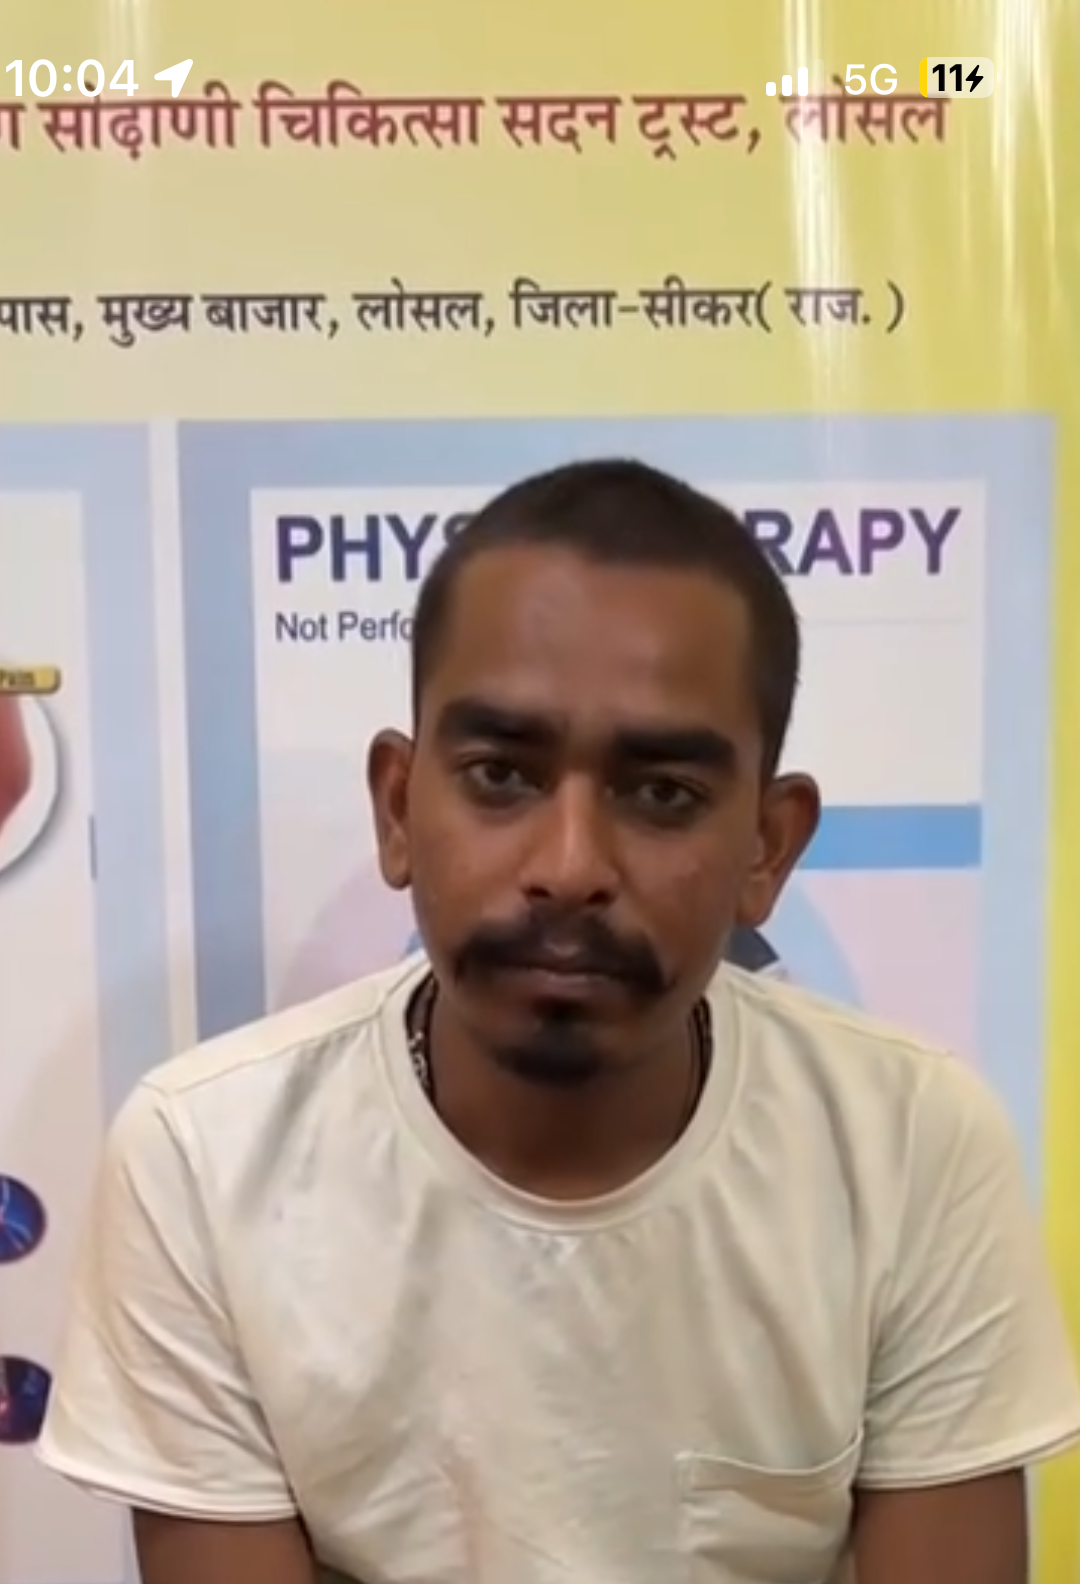
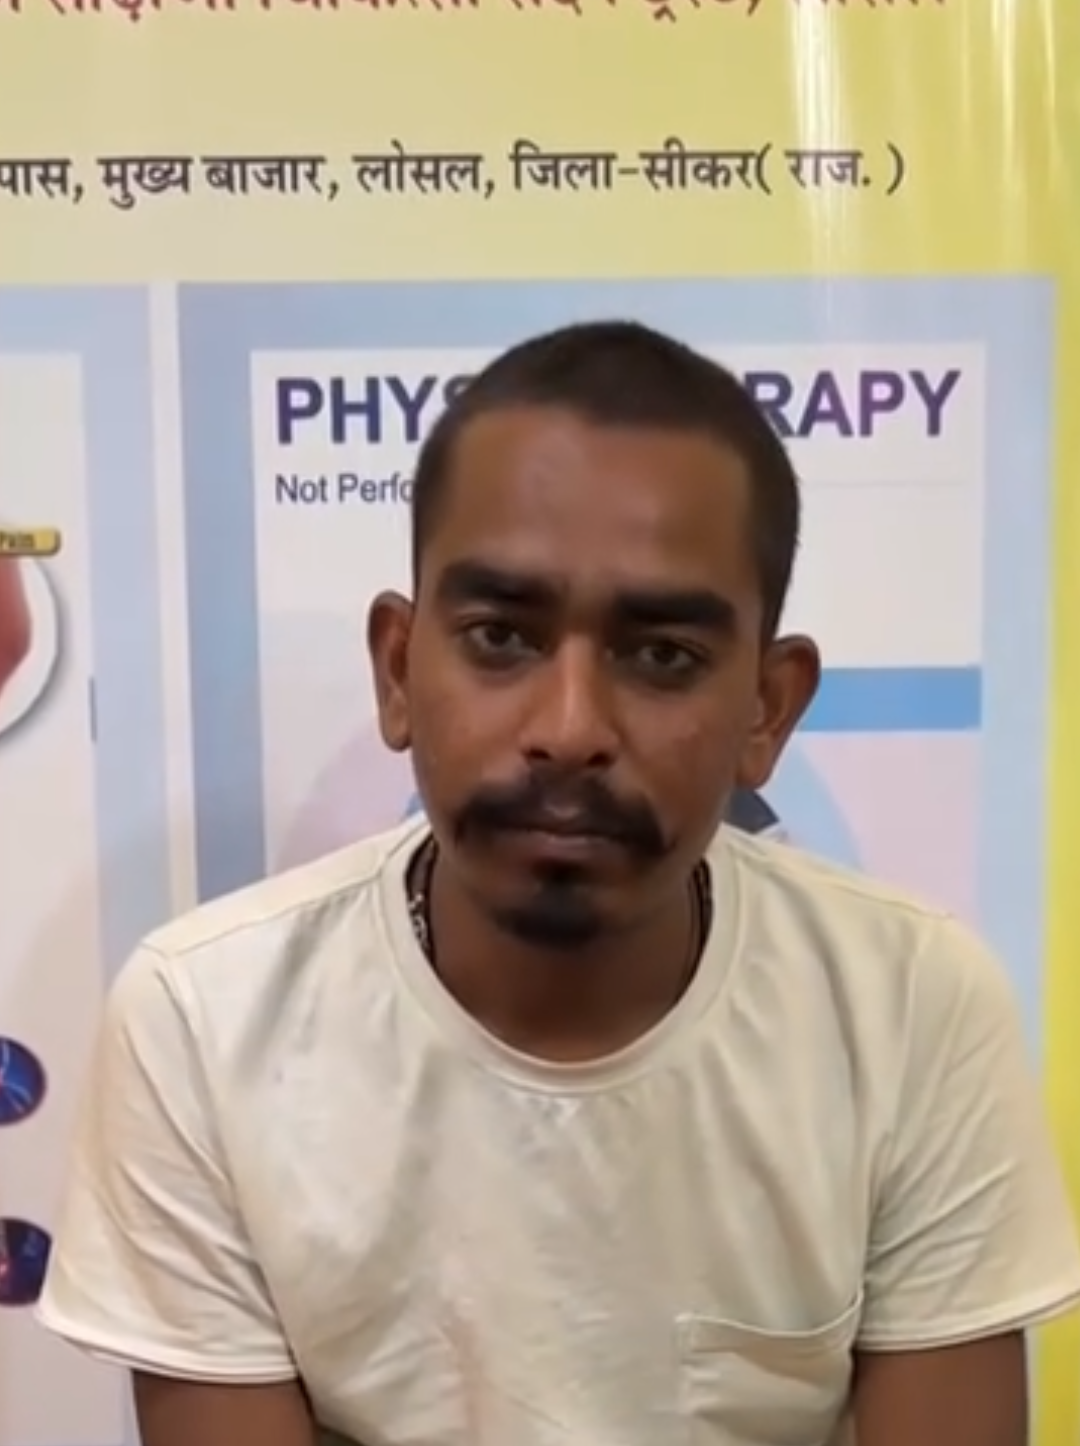
images

diff --git a/src/subpages/Testimonials.jsx b/src/subpages/Testimonials.jsx
@@ -1,13 +1,12 @@
 import React, { useState } from 'react';
 import { Star } from 'lucide-react';
 
-// COMPLETE TESTIMONIALS DATA - All 46 patients
 const TESTIMONIALS_DATA = [
   {
     id: 1,
     name: 'Mukesh Kumar',
     age: 32,
-    image: '/public/images/mu',
+    image: '/public/images/Testimonials/Mukesh .PNG',
     problem: 'Chronic Lower Back Pain',
     category: 'pain-management',
     duration: '4 weeks',
@@ -19,7 +18,7 @@ const TESTIMONIALS_DATA = [
     id: 2,
     name: 'Pintu Yogi',
     age: 25,
-    image: 'https://via.placeholder.com/400x300?text=Pintu',
+    image: '/public/images/Testimonials/Pintu Yogi.PNG',
     problem: 'ACL Tear & Knee Injury',
     category: 'sports-rehab',
     duration: '8 weeks',
@@ -31,7 +30,7 @@ const TESTIMONIALS_DATA = [
     id: 3,
     name: 'Gyan Chand Jatolia',
     age: 28,
-    image: 'https://via.placeholder.com/400x300?text=Gyan',
+    image: '/public/images/Testimonials/Gyan Chand.PNG',
     problem: 'Cervical Spondylosis',
     category: 'orthopedic',
     duration: '4 weeks',
@@ -43,7 +42,7 @@ const TESTIMONIALS_DATA = [
     id: 4,
     name: 'Akhtar Husain',
     age: 65,
-    image: 'https://via.placeholder.com/400x300?text=Akhtar',
+    image: '/public/images/Testimonials/Akhtar Husain.PNG',
     problem: 'Post-Stroke Rehabilitation',
     category: 'neurological',
     duration: '12 weeks',
@@ -55,7 +54,7 @@ const TESTIMONIALS_DATA = [
     id: 5,
     name: 'Bindia Devi',
     age: 52,
-    image: 'https://via.placeholder.com/400x300?text=Bindia',
+    image: '/public/images/Testimonials/Bindia Devi.PNG',
     problem: 'Frozen Shoulder',
     category: 'orthopedic',
     duration: '10 weeks',
@@ -67,7 +66,7 @@ const TESTIMONIALS_DATA = [
     id: 6,
     name: 'Pushpa Devi',
     age: 70,
-    image: 'https://via.placeholder.com/400x300?text=Pushpa',
+    image: '/public/images/Testimonials/Pushpa Devi.jpeg',
     problem: 'Rheumatoid Arthritis',
     category: 'pain-management',
     duration: '6 weeks',
@@ -79,7 +78,7 @@ const TESTIMONIALS_DATA = [
     id: 7,
     name: 'Vijay Shree Soni',
     age: 32,
-    image: 'https://via.placeholder.com/400x300?text=Vijay',
+    image: '/public/images/Testimonials/Vijayshree Soni.jpg',
     problem: 'Pregnancy-Related Back Pain',
     category: 'others',
     duration: 'ongoing',
@@ -91,7 +90,7 @@ const TESTIMONIALS_DATA = [
     id: 8,
     name: 'Sitaram Kumawat',
     age: 70,
-    image: 'https://via.placeholder.com/400x300?text=Sitaram',
+    image: '/public/images/Testimonials/Sitaram Kumawat.PNG',
     problem: 'Post-Operative Knee Surgery',
     category: 'orthopedic',
     duration: '8 weeks',
@@ -103,7 +102,7 @@ const TESTIMONIALS_DATA = [
     id: 9,
     name: 'Jhutaram Gurjar',
     age: 68,
-    image: 'https://via.placeholder.com/400x300?text=Jhutaram',
+    image: '/public/images/Testimonials/Jhutaram Gurjar.PNG',
     problem: 'Frozen Shoulder',
     category: 'orthopedic',
     duration: '8 weeks',
@@ -115,7 +114,7 @@ const TESTIMONIALS_DATA = [
     id: 10,
     name: 'Munsi Ji',
     age: 41,
-    image: 'https://via.placeholder.com/400x300?text=Munsi',
+    image: '/public/images/Testimonials/Munsi Ji.PNG',
     problem: 'ACL Reconstruction Rehabilitation',
     category: 'sports-rehab',
     duration: '6 weeks',
@@ -127,7 +126,7 @@ const TESTIMONIALS_DATA = [
     id: 11,
     name: 'Varsha Bajaj',
     age: 32,
-    image: 'https://via.placeholder.com/400x300?text=Varsha',
+    image: '/public/images/Testimonials/Varsha Bajaj.PNG',
     problem: 'Osteoarthritis of Knee',
     category: 'pain-management',
     duration: '4 weeks',
@@ -139,7 +138,7 @@ const TESTIMONIALS_DATA = [
     id: 12,
     name: 'Kunal Jangid',
     age: 32,
-    image: 'https://via.placeholder.com/400x300?text=Kunal',
+    image: '/public/images/Testimonials/Kunal Jangid.PNG',
     problem: 'Lumbar Disc Bulge',
     category: 'pain-management',
     duration: '6 weeks',
@@ -151,7 +150,7 @@ const TESTIMONIALS_DATA = [
     id: 13,
     name: 'Sukhdev Ram',
     age: 60,
-    image: 'https://via.placeholder.com/400x300?text=Sukhdev',
+    image: '/public/images/Testimonials/Sukhdev Ram.PNG',
     problem: 'Balance & Gait Disorder',
     category: 'neurological',
     duration: '6 weeks',
@@ -163,7 +162,7 @@ const TESTIMONIALS_DATA = [
     id: 14,
     name: 'Suman Sharma',
     age: 35,
-    image: 'https://via.placeholder.com/400x300?text=Suman',
+    image: '/public/images/Testimonials/Suman Sharma.JPG',
     problem: 'Tennis Elbow',
     category: 'orthopedic',
     duration: '3 weeks',
@@ -175,7 +174,7 @@ const TESTIMONIALS_DATA = [
     id: 15,
     name: 'Madhusudhan Sharma',
     age: 60,
-    image: 'https://via.placeholder.com/400x300?text=Madhusudhan',
+    image: '/public/images/Testimonials/Madhusudhan Sharma.PNG',
     problem: 'Plantar Fasciitis',
     category: 'pain-management',
     duration: '5 weeks',
@@ -197,7 +196,7 @@ const TESTIMONIALS_DATA = [
   },
   {
     id: 17,
-    name: 'Ashok Prajapat',
+    name: 'Test Patient',
     age: 36,
     image: 'https://via.placeholder.com/400x300?text=Ashok',
     problem: 'Slip Disc (Lumbar Disc Herniation)',
@@ -211,7 +210,7 @@ const TESTIMONIALS_DATA = [
     id: 18,
     name: 'Munni Devi',
     age: 38,
-    image: 'https://via.placeholder.com/400x300?text=Munni',
+    image: '/public/images/Testimonials/Munni Devi.PNG',
     problem: 'Sciatica',
     category: 'pain-management',
     duration: '4 weeks',
@@ -223,7 +222,7 @@ const TESTIMONIALS_DATA = [
     id: 19,
     name: 'Kailash Chand Sharma',
     age: 57,
-    image: 'https://via.placeholder.com/400x300?text=Kailash',
+    image: '/public/images/Testimonials/Kailash Chand Sharma.PNG',
     problem: 'Shoulder Impingement Syndrome',
     category: 'orthopedic',
     duration: '3 weeks',
@@ -235,7 +234,7 @@ const TESTIMONIALS_DATA = [
     id: 20,
     name: 'Narendra Singh',
     age: 19,
-    image: 'https://via.placeholder.com/400x300?text=Narendra',
+    image: '/public/images/Testimonials/Narendra Singh.PNG',
     problem: 'Recurrent Knee Pain (Runner\'s Knee)',
     category: 'sports-rehab',
     duration: '1 week',
@@ -574,7 +573,6 @@ const TestimonialCard = ({ testimonial, isDarkMode }) => (
         alt={testimonial.name}
         className="w-full h-full object-cover transition-transform duration-500 group-hover:scale-110"
       />
-      <div className="absolute inset-0 bg-gradient-to-b from-transparent via-transparent to-black/50 group-hover:to-black/70 transition-colors duration-300"></div>
       
       <div className="absolute top-4 right-4 bg-yellow-400 text-yellow-900 px-3 py-1 rounded-full flex items-center gap-1 font-bold shadow-lg text-sm">
         <Star className="w-4 h-4 fill-current" />

diff --git a/src/subpages/Therapies.jsx b/src/subpages/Therapies.jsx
@@ -6,37 +6,37 @@ const TherapiesData = {
         { 
             id: 'tens', 
             title: 'TENS (Transcutaneous Electrical Nerve Stimulation)', 
-            image: '/public/images/TENS.png', // Add your image path here
+            image: '/public/images/Therapies/TENS.png', 
             description: 'Uses controlled electrical currents to reduce pain, relax muscles, improve blood flow, and stimulate healing. Common form for <strong>nerve pain relief</strong>.' 
         },
         { 
-            id: 'ift', 
+            id: 'ift',
             title: 'IFT (Interferential Therapy)', 
-            image: '/images/therapies/ift.jpg',
+            image: '/public/images/Therapies/IFT.png',
             description: 'Uses <strong>medium-frequency currents</strong> that penetrate deeper for deep tissue pain modulation. Ideal for <strong>joint pain, muscle spasms, and arthritis pain</strong>.' 
         },
         { 
             id: 'ultrasound', 
             title: 'Ultrasound Therapy', 
-            image: '/images/therapies/ultrasound.jpg',
+            image: '/public/images/therapies/Ultrasound.png',
             description: 'Applies high-frequency <strong>sound waves</strong> to promote tissue repair, reduce inflammation, and improve soft-tissue elasticity. Often used for <strong>tendonitis and ligament injuries</strong>.' 
         },
         { 
-            id: 'laser', 
-            title: 'Laser & Light Therapy', 
-            image: '/images/therapies/laser.jpg',
-            description: 'Low-level laser or infrared light enhances <strong>cellular regeneration</strong>, reduces inflammation, and improves tissue healing. Helpful in chronic pain, soft-tissue damage, and post-surgical recovery.' 
+            id: 'ir-lamp', 
+            title: 'Infrared (IR) Lamp Therapy', 
+            image: '/public/images/therapies/IR Lamp.png',
+            description: 'Infrared heat therapy uses an IR lamp to deliver deep <strong>therapeutic warmth</strong> that <strong>improves blood circulation, relaxes muscles, reduces stiffness</strong>, and helps relieve pain and discomfort.' 
         },
         { 
             id: 'hotpack', 
             title: 'Thermotherapy (Heat Therapy)', 
-            image: '/images/therapies/heat.jpg',
+            image: '/public/images/Therapies/Thermotherapy.png',
             description: 'Improves circulation, relaxes tight muscles, and increases tissue flexibility. Used in <strong>chronic pain, arthritis, stiffness, and muscle spasms</strong>.' 
         },
         { 
             id: 'coldpack', 
             title: 'Cryotherapy (Cold Therapy)', 
-            image: '/images/therapies/cold.jpg',
+            image: '/public/images/Therapies/Cryotherapy.png',
             description: 'Reduces <strong>swelling, inflammation, and pain</strong> by lowering tissue temperature. Common in acute injuries like <strong>sprains and strains</strong> to control early-stage inflammation.' 
         }
     ],
@@ -254,7 +254,7 @@ const Therapies = () => {
                     </p>
 
                    <div className="grid grid-cols-1 md:grid-cols-2 lg:grid-cols-3 gap-8">
-    {therapyData.keytherapy.map((therapy) => (
+    {TherapiesData.keyElectropathy.map((therapy) => (
         <div key={therapy.id} 
              // 1. Force cards to be equal height in a row
              className={`flex flex-col h-full rounded-xl overflow-hidden shadow-md transition-transform hover:scale-105 ${isDarkMode ? 'bg-gray-800' : 'bg-white'}`}>

diff --git a/src/subpages/Rehabs.jsx b/src/subpages/Rehabs.jsx
@@ -107,7 +107,7 @@ const Rehabilitation = () => {
                     </p>
 
                     <div className="grid grid-cols-1 md:grid-cols-2 lg:grid-cols-3 gap-8">
-    {rehabData.keyrehab.map((rehab) => (
+    {RehabData.keyRehab.map((rehab) => (
         <div key={rehab.id} 
              // 1. Force cards to be equal height in a row
              className={`flex flex-col h-full rounded-xl overflow-hidden shadow-md transition-transform hover:scale-105 ${isDarkMode ? 'bg-gray-800' : 'bg-white'}`}>

diff --git a/src/pages/Gallery.jsx b/src/pages/Gallery.jsx
@@ -1917,7 +1917,7 @@ const Gallery = () => {
   const [selectedImage, setSelectedImage] = useState(null);
 
   const galleryImages = [
-    '/images/1.JPG',
+    '/public/images/Doctor.jpg',
     '/images/2.JPG',
     '/images/3.JPG',
     '/images/4.JPG',
